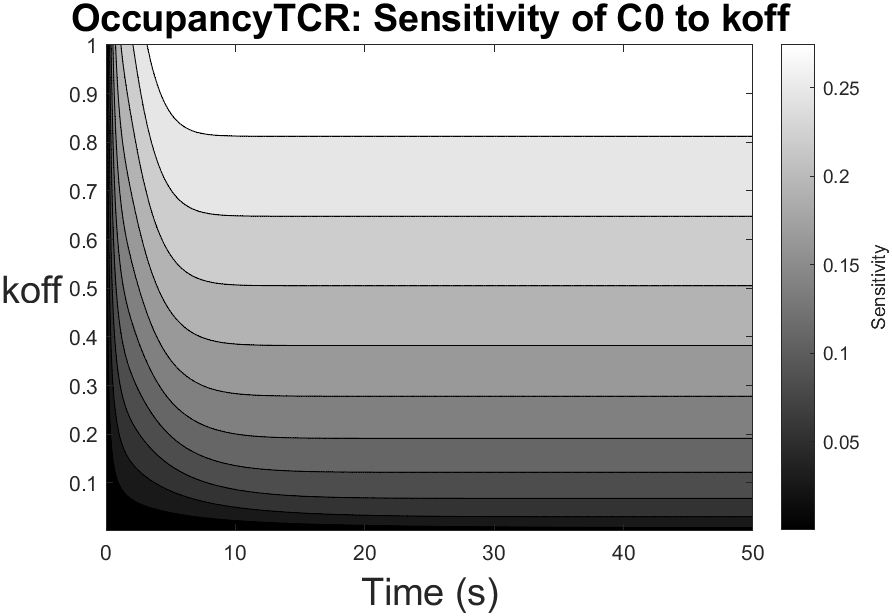
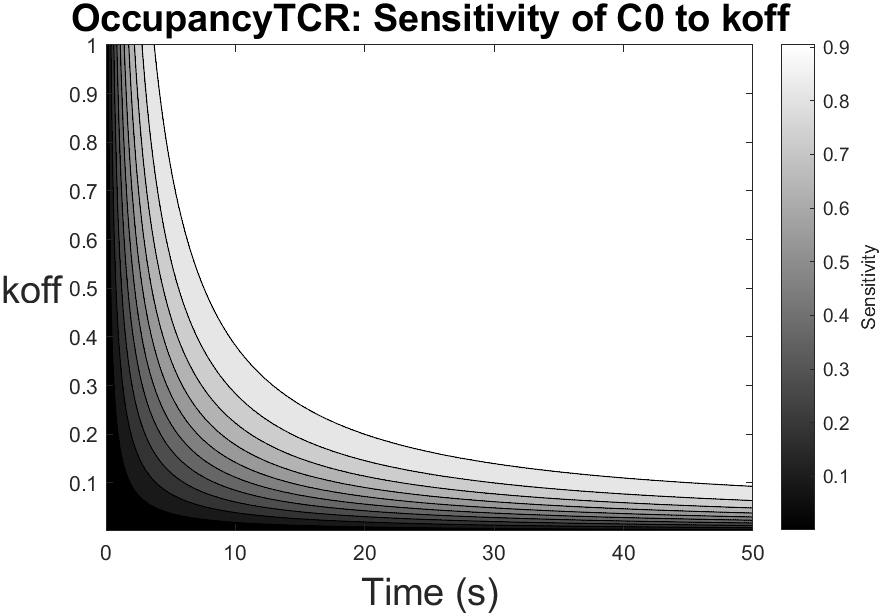
Different methods for defining the range of parameters (still need to be checked))

diff --git a/v.6/options.m b/v.6/options.m
@@ -8,11 +8,11 @@ function opts = options()
     opts.modelname     = 'OccupancyTCR';          
     
     % === TOLERANCES ===
-    opts.rel_tol = 1e-9;                 %   Relative Tolerance.   
-    opts.abs_tol = 1e-12;                %   Absolute Tolerance.
+    opts.rel_tol = 1e-4;                 %   Relative Tolerance.   
+    opts.abs_tol = 1e-4;                 %   Absolute Tolerance.
     
     % === SOLVER AND STEP ===
-    opts.solver = @ode45;                %   Some examples: @ode15, @ode23s, @ode45...
+    opts.solver = @ode23s;                %   Some examples: @ode15, @ode23s, @ode45...
     opts.d = 1.0e-16;
     
     % === PARALLEL COMPUTING ===

diff --git a/v.6/models/OccupancyTCR_options.m b/v.6/models/OccupancyTCR_options.m
@@ -7,7 +7,7 @@ model.param_values =[5e-5, 0.01];
 model.param_names = {'kon', 'koff'};
 
 % === PARAMETER RANGE VALUES ===
-model.range_type = 2;
+model.range_type = 3;
 % Choose one option:
 %   1 -> default range: 3 orders of magnitude below and 3 above the nominal parameter value.
 %   2 -> define [min, max] for each parameter and the number of points
@@ -34,7 +34,7 @@ elseif model.range_type == 3
 end                        
 
 % === INITIAL CONDITIONS ===
-model.x0 = [0, 5e4, 2e4];
+model.x0 = [0, 100, 2e4];
 model.state_names = {'C0', 'L', 'R'};
 
 % === STATE TO ANALYZE ===

diff --git a/v.6/src/sensitivityParams.m b/v.6/src/sensitivityParams.m
@@ -26,7 +26,8 @@ function sensitivityParams(model, opts, ode_function)
             
             elseif model.range_type == 3
 
-                ModelVect = model.param_ranges{pI};        
+                ModelVect = model.param_ranges{pI};
+                model.number_samples = length(ModelVect);
             
             end 
     
